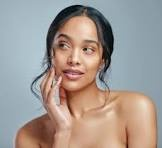
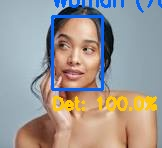
Add improved Streamlit UI with multiple image support

Changed region(s): [[0.2778, 0.0, 0.9877, 0.7568], [0.8333, 0.0, 1.0, 0.1081]]

diff --git a/app.py b/app.py
@@ -1,0 +1,196 @@
+
+import cv2
+import numpy as np
+import streamlit as st
+from deepface import DeepFace
+from PIL import Image
+import io
+
+# ── Page config ────────────────────────────────────────────────
+st.set_page_config(
+    page_title="Face Analysis App",
+    page_icon="👤",
+    layout="wide"
+)
+
+# ── Custom CSS ─────────────────────────────────────────────────
+st.markdown("""
+<style>
+    .main { background-color: #0f1117; }
+    .block-container { padding-top: 2rem; }
+    .stMetric {
+        background: linear-gradient(135deg, #1e1e2e, #2a2a3e);
+        border-radius: 12px;
+        padding: 1rem;
+        border: 1px solid #3a3a5e;
+    }
+    .face-card {
+        background: linear-gradient(135deg, #1a1a2e, #16213e);
+        border-radius: 16px;
+        padding: 1.5rem;
+        margin: 1rem 0;
+        border: 1px solid #0f3460;
+    }
+    .title-text {
+        font-size: 2.5rem;
+        font-weight: 700;
+        background: linear-gradient(90deg, #667eea, #764ba2);
+        -webkit-background-clip: text;
+        -webkit-text-fill-color: transparent;
+    }
+    .subtitle-text {
+        color: #888;
+        font-size: 1rem;
+        margin-bottom: 2rem;
+    }
+    .gender-badge-woman {
+        background: linear-gradient(90deg, #f093fb, #f5576c);
+        color: white;
+        padding: 4px 16px;
+        border-radius: 20px;
+        font-weight: 600;
+        font-size: 0.9rem;
+    }
+    .gender-badge-man {
+        background: linear-gradient(90deg, #4facfe, #00f2fe);
+        color: white;
+        padding: 4px 16px;
+        border-radius: 20px;
+        font-weight: 600;
+        font-size: 0.9rem;
+    }
+    div[data-testid="stImage"] img {
+        border-radius: 12px;
+    }
+</style>
+""", unsafe_allow_html=True)
+
+# ── Header ─────────────────────────────────────────────────────
+st.markdown('<p class="title-text">👤 Face Analysis App</p>', unsafe_allow_html=True)
+st.markdown('<p class="subtitle-text">Upload one or more images to detect faces and predict gender & age using deep learning.</p>', unsafe_allow_html=True)
+
+# ── Load DNN face detector ─────────────────────────────────────
+@st.cache_resource
+def load_detector():
+    net = cv2.dnn.readNetFromCaffe(
+        "models/deploy.prototxt",
+        "models/res10_300x300_ssd_iter_140000.caffemodel"
+    )
+    return net
+
+net = load_detector()
+
+# ── Helper: process one image ──────────────────────────────────
+def process_image(image):
+    h, w = image.shape[:2]
+    blob = cv2.dnn.blobFromImage(
+        cv2.resize(image, (300, 300)),
+        1.0, (300, 300),
+        (104.0, 177.0, 123.0)
+    )
+    net.setInput(blob)
+    detections = net.forward()
+
+    results = []
+    output_image = image.copy()
+
+    for i in range(detections.shape[2]):
+        confidence = detections[0, 0, i, 2]
+        if confidence > 0.6:
+            box = detections[0, 0, i, 3:7] * [w, h, w, h]
+            x1, y1, x2, y2 = box.astype("int")
+
+            pad = 20
+            x1p = max(0, x1 - pad)
+            y1p = max(0, y1 - pad)
+            x2p = min(w, x2 + pad)
+            y2p = min(h, y2 + pad)
+            face_crop = image[y1p:y2p, x1p:x2p]
+
+            try:
+                result = DeepFace.analyze(
+                    face_crop,
+                    actions=["age", "gender"],
+                    enforce_detection=False
+                )
+                age         = result[0]["age"]
+                gender      = result[0]["dominant_gender"]
+                gender_conf = result[0]["gender"][gender]
+
+                results.append({
+                    "gender": gender,
+                    "gender_conf": gender_conf,
+                    "age": age,
+                    "det_conf": confidence * 100,
+                    "crop": face_crop
+                })
+
+                # Draw on image
+                color = (240, 100, 200) if gender == "Woman" else (100, 200, 240)
+                cv2.rectangle(output_image, (x1, y1), (x2, y2), color, 2)
+                cv2.putText(output_image,
+                    f"{gender} ({gender_conf:.0f}%)  Age: {age}",
+                    (x1, y1 - 10),
+                    cv2.FONT_HERSHEY_SIMPLEX, 0.65, color, 2)
+
+            except Exception as e:
+                pass
+
+    return output_image, results
+
+# ── File uploader (multiple files) ────────────────────────────
+uploaded_files = st.file_uploader(
+    "Upload one or more images",
+    type=["jpg", "jpeg", "png"],
+    accept_multiple_files=True
+)
+
+if uploaded_files:
+    for uploaded_file in uploaded_files:
+        st.divider()
+        st.markdown(f"### 📸 {uploaded_file.name}")
+
+        file_bytes = np.asarray(bytearray(uploaded_file.read()), dtype=np.uint8)
+        image = cv2.imdecode(file_bytes, cv2.IMREAD_COLOR)
+
+        col1, col2 = st.columns(2)
+
+        with col1:
+            st.markdown("**Original**")
+            st.image(cv2.cvtColor(image, cv2.COLOR_BGR2RGB), use_container_width=True)
+
+        with st.spinner(f"Analyzing {uploaded_file.name}..."):
+            output_image, results = process_image(image)
+
+        with col2:
+            st.markdown("**Detected**")
+            st.image(cv2.cvtColor(output_image, cv2.COLOR_BGR2RGB), use_container_width=True)
+
+        # Download button
+        result_rgb = cv2.cvtColor(output_image, cv2.COLOR_BGR2RGB)
+        pil_img = Image.fromarray(result_rgb)
+        buf = io.BytesIO()
+        pil_img.save(buf, format="JPEG")
+        st.download_button(
+            label=f"⬇ Download result — {uploaded_file.name}",
+            data=buf.getvalue(),
+            file_name=f"result_{uploaded_file.name}",
+            mime="image/jpeg"
+        )
+
+        # Result cards
+        if results:
+            st.markdown(f"**{len(results)} face(s) found**")
+            cols = st.columns(len(results))
+            for idx, (r, col) in enumerate(zip(results, cols)):
+                with col:
+                    badge_class = "gender-badge-woman" if r["gender"] == "Woman" else "gender-badge-man"
+                    st.markdown(f'<span class="{badge_class}">{r["gender"]}</span>', unsafe_allow_html=True)
+                    st.metric("Age", f"{r['age']} yrs")
+                    st.metric("Gender confidence", f"{r['gender_conf']:.1f}%")
+                    st.metric("Face detection", f"{r['det_conf']:.1f}%")
+        else:
+            st.warning("No faces detected in this image.")
+
+else:
+    st.info("👆 Upload one or more images to get started!")
